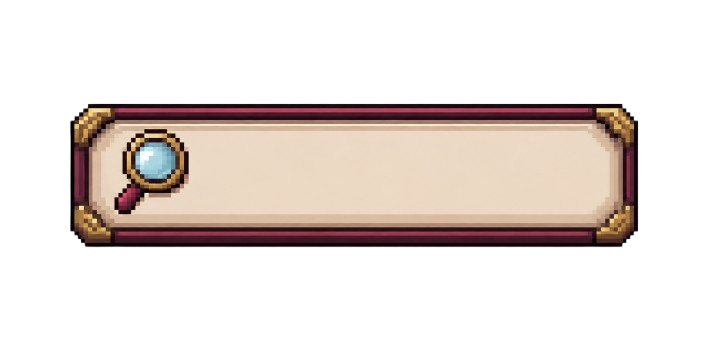
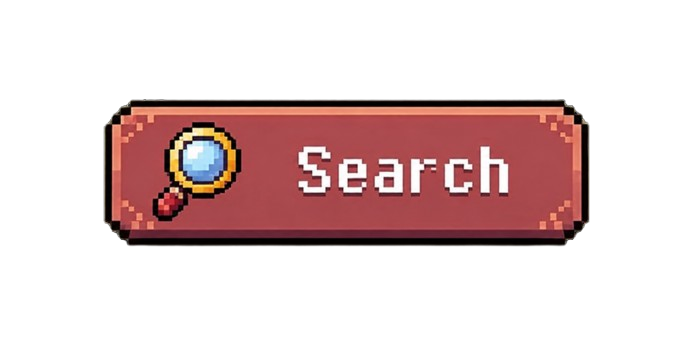
restart and resume game updates

diff --git a/src/DemoRunner.java b/src/DemoRunner.java
@@ -21,7 +21,7 @@ public class DemoRunner {
     private static domain.models.GameMode activeGameMode = domain.models.GameMode.ADVENTURE;
     private static LevelManager levelManager = null;
 
-    private static GameMap cloneMap(GameMap original) {
+    private static GameMap cloneMap(GameMap original, boolean isRestart) {
         if (original == null)
             return null;
         int w = original.getWidth();
@@ -55,13 +55,21 @@ public class DemoRunner {
                             domain.models.entity.SearchableObject so = (domain.models.entity.SearchableObject) origDeco;
                             domain.models.entity.SearchableObject newSo = new domain.models.entity.SearchableObject(so.getName(), x, y,
                                     so.getImageName(), so.getOpenImageName());
-                            if (so.getHiddenItem() != null) {
-                                if (so.getHiddenItem() instanceof domain.models.staticObjects.LevelKey) {
-                                    domain.models.staticObjects.LevelKey lk = (domain.models.staticObjects.LevelKey) so.getHiddenItem();
-                                    newSo.setHiddenItem(new domain.models.staticObjects.LevelKey(lk.getName(), x, y, lk.getImageName()));
-                                } else if (so.getHiddenItem() instanceof domain.models.staticObjects.KeyItem) {
-                                    domain.models.staticObjects.KeyItem key = (domain.models.staticObjects.KeyItem) so.getHiddenItem();
-                                    newSo.setHiddenItem(new domain.models.staticObjects.KeyItem(key.getName(), x, y, key.getImageName()));
+                            if (isRestart) {
+                                newSo.setSearched(false);
+                                newSo.setTrapTriggered(false);
+                                newSo.setHiddenItem(null);
+                            } else {
+                                newSo.setSearched(so.isSearched());
+                                newSo.setTrapTriggered(so.isTrapTriggered());
+                                if (so.getHiddenItem() != null) {
+                                    if (so.getHiddenItem() instanceof domain.models.staticObjects.LevelKey) {
+                                        domain.models.staticObjects.LevelKey lk = (domain.models.staticObjects.LevelKey) so.getHiddenItem();
+                                        newSo.setHiddenItem(new domain.models.staticObjects.LevelKey(lk.getName(), x, y, lk.getImageName()));
+                                    } else if (so.getHiddenItem() instanceof domain.models.staticObjects.KeyItem) {
+                                        domain.models.staticObjects.KeyItem key = (domain.models.staticObjects.KeyItem) so.getHiddenItem();
+                                        newSo.setHiddenItem(new domain.models.staticObjects.KeyItem(key.getName(), x, y, key.getImageName()));
+                                    }
                                 }
                             }
                             newDeco = newSo;
@@ -128,13 +136,21 @@ public class DemoRunner {
                     domain.models.entity.SearchableObject so = (domain.models.entity.SearchableObject) obj;
                     domain.models.entity.SearchableObject newSo = new domain.models.entity.SearchableObject(so.getName(), x, y, so.getImageName(),
                             so.getOpenImageName());
-                    if (so.getHiddenItem() != null) {
-                        if (so.getHiddenItem() instanceof domain.models.staticObjects.LevelKey) {
-                            domain.models.staticObjects.LevelKey lk = (domain.models.staticObjects.LevelKey) so.getHiddenItem();
-                            newSo.setHiddenItem(new domain.models.staticObjects.LevelKey(lk.getName(), x, y, lk.getImageName()));
-                        } else if (so.getHiddenItem() instanceof domain.models.staticObjects.KeyItem) {
-                            domain.models.staticObjects.KeyItem key = (domain.models.staticObjects.KeyItem) so.getHiddenItem();
-                            newSo.setHiddenItem(new domain.models.staticObjects.KeyItem(key.getName(), x, y, key.getImageName()));
+                    if (isRestart) {
+                        newSo.setSearched(false);
+                        newSo.setTrapTriggered(false);
+                        newSo.setHiddenItem(null);
+                    } else {
+                        newSo.setSearched(so.isSearched());
+                        newSo.setTrapTriggered(so.isTrapTriggered());
+                        if (so.getHiddenItem() != null) {
+                            if (so.getHiddenItem() instanceof domain.models.staticObjects.LevelKey) {
+                                domain.models.staticObjects.LevelKey lk = (domain.models.staticObjects.LevelKey) so.getHiddenItem();
+                                newSo.setHiddenItem(new domain.models.staticObjects.LevelKey(lk.getName(), x, y, lk.getImageName()));
+                            } else if (so.getHiddenItem() instanceof domain.models.staticObjects.KeyItem) {
+                                domain.models.staticObjects.KeyItem key = (domain.models.staticObjects.KeyItem) so.getHiddenItem();
+                                newSo.setHiddenItem(new domain.models.staticObjects.KeyItem(key.getName(), x, y, key.getImageName()));
+                            }
                         }
                     }
                     copy.placeObject(newSo, x, y);
@@ -155,7 +171,7 @@ public class DemoRunner {
 
     private static void restartGame(JFrame frame, JPanel mainPanel, CardLayout cardLayout) {
         if (initialDesignedMap != null) {
-            GameMap cleanMap = cloneMap(initialDesignedMap);
+            GameMap cleanMap = cloneMap(initialDesignedMap, true);
             startGameWithMap(frame, mainPanel, cardLayout, cleanMap, activeGameMode);
         } else {
             startGame(frame, mainPanel, cardLayout);
@@ -266,7 +282,7 @@ public class DemoRunner {
         activeGameMode = mode;
 
         if (mode == domain.models.GameMode.TEAM_MATCH) {
-            initialDesignedMap = cloneMap(map);
+            initialDesignedMap = cloneMap(map, false);
             startTeamMatchWithMap(frame, mainPanel, cardLayout, map);
             return;
         }
@@ -307,7 +323,7 @@ public class DemoRunner {
         }
 
         // Save the map clone AFTER door and hidden key setups are established so that restarting yields the exact same layout.
-        initialDesignedMap = cloneMap(map);
+        initialDesignedMap = cloneMap(map, false);
 
         // Initialize level manager for level progression
         levelManager = new LevelManager();

diff --git a/test/DesignModeViewConstraintTest.java b/test/DesignModeViewConstraintTest.java
@@ -215,4 +215,72 @@ public class DesignModeViewConstraintTest {
         assertTrue(torchDims[0] <= 32 && torchDims[1] <= 32, 
             "Torch must be clamped to not exceed the wall tile size (32px), but was width: " + torchDims[0] + ", height: " + torchDims[1]);
     }
+
+    @Test
+    public void testCloneMap_RestartVsResumeState() throws Exception {
+        GameMap original = new GameMap(5, 5);
+        
+        // 1. Get pre-existing WallTile at (1, 0) and place a SearchableObject decoration
+        WallTile wall = (WallTile) original.getObjectAt(1, 0);
+        assertNotNull(wall);
+        SearchableObject wallSo = new SearchableObject("WallSearchable", 1, 0, "images/WallSearchable/gargoyle.png", "images/WallSearchable/gargoyle.png");
+        wallSo.setSearched(true);
+        wallSo.setTrapTriggered(true);
+        domain.models.staticObjects.LevelKey key1 = new domain.models.staticObjects.LevelKey(1, 0);
+        wallSo.setHiddenItem(key1);
+        original.placeObject(wallSo, 1, 0);
+
+        // 2. Create a floor-mounted SearchableObject
+        SearchableObject floorSo = new SearchableObject("Chest", 2, 2, "containers/chest_brown", "containers/chest_brown");
+        floorSo.setSearched(true);
+        floorSo.setTrapTriggered(true);
+        domain.models.staticObjects.KeyItem key2 = new domain.models.staticObjects.KeyItem(2, 2);
+        floorSo.setHiddenItem(key2);
+        original.placeObject(floorSo, 2, 2);
+
+        // Access private cloneMap method via reflection
+        Method cloneMethod = DemoRunner.class.getDeclaredMethod("cloneMap", GameMap.class, boolean.class);
+        cloneMethod.setAccessible(true);
+
+        // 3. Test Resume Mode (isRestart = false)
+        GameMap resumeClone = (GameMap) cloneMethod.invoke(null, original, false);
+        assertNotNull(resumeClone);
+        
+        // Verify wall decoration on resume clone
+        WallTile clonedWall = (WallTile) resumeClone.getObjectAt(1, 0);
+        assertNotNull(clonedWall);
+        SearchableObject clonedWallSo = (SearchableObject) clonedWall.getDecoration();
+        assertNotNull(clonedWallSo);
+        assertTrue(clonedWallSo.isSearched(), "Wall searchable should remain searched on resume");
+        assertTrue(clonedWallSo.isTrapTriggered(), "Wall searchable trap status should be preserved on resume");
+        assertNotNull(clonedWallSo.getHiddenItem(), "Wall searchable hidden item should be preserved on resume");
+        assertTrue(clonedWallSo.getHiddenItem() instanceof domain.models.staticObjects.LevelKey, "Hidden item type should be preserved");
+
+        // Verify floor searchable on resume clone
+        SearchableObject clonedFloorSo = (SearchableObject) resumeClone.getObjectAt(2, 2);
+        assertNotNull(clonedFloorSo);
+        assertTrue(clonedFloorSo.isSearched(), "Floor searchable should remain searched on resume");
+        assertTrue(clonedFloorSo.isTrapTriggered(), "Floor searchable trap status should be preserved on resume");
+        assertNotNull(clonedFloorSo.getHiddenItem(), "Floor searchable hidden item should be preserved on resume");
+
+        // 4. Test Restart Mode (isRestart = true)
+        GameMap restartClone = (GameMap) cloneMethod.invoke(null, original, true);
+        assertNotNull(restartClone);
+
+        // Verify wall decoration on restart clone
+        WallTile restartedWall = (WallTile) restartClone.getObjectAt(1, 0);
+        assertNotNull(restartedWall);
+        SearchableObject restartedWallSo = (SearchableObject) restartedWall.getDecoration();
+        assertNotNull(restartedWallSo);
+        assertFalse(restartedWallSo.isSearched(), "Wall searchable should be reset to unsearched on restart");
+        assertFalse(restartedWallSo.isTrapTriggered(), "Wall searchable trap status should be reset to false on restart");
+        assertNull(restartedWallSo.getHiddenItem(), "Wall searchable hidden item should be reset to null on restart");
+
+        // Verify floor searchable on restart clone
+        SearchableObject restartedFloorSo = (SearchableObject) restartClone.getObjectAt(2, 2);
+        assertNotNull(restartedFloorSo);
+        assertFalse(restartedFloorSo.isSearched(), "Floor searchable should be reset to unsearched on restart");
+        assertFalse(restartedFloorSo.isTrapTriggered(), "Floor searchable trap status should be reset to false on restart");
+        assertNull(restartedFloorSo.getHiddenItem(), "Floor searchable hidden item should be reset to null on restart");
+    }
 }

diff --git a/src/domain/models/map/GameMap.java b/src/domain/models/map/GameMap.java
@@ -92,8 +92,8 @@ public class GameMap extends Grid {
         }
 
         if (existing instanceof domain.models.tile.WallTile) {
-            // Allow placing a Door to overwrite the WallTile completely
-            if (obj instanceof domain.models.staticObjects.Door) {
+            // Allow placing a Door or another WallTile to overwrite the WallTile completely
+            if (obj instanceof domain.models.staticObjects.Door || obj instanceof domain.models.tile.WallTile) {
                 boolean success = super.placeObject(obj, x, y);
                 if (success && obj != null) {
                     obj.setMap(this);
